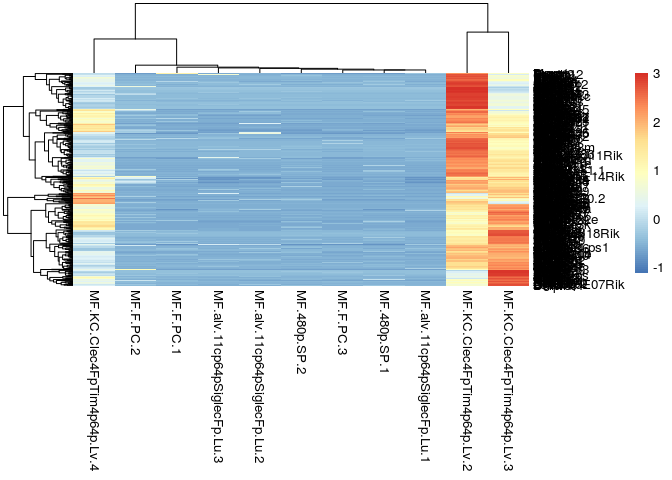
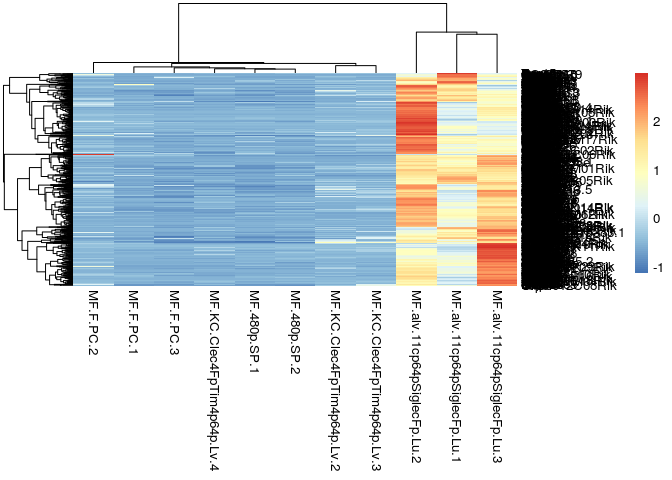
v2

diff --git a/task.md b/task.md
@@ -32,15 +32,15 @@ which were transfected.
 ## The project
 
 Doing a pooled screen can be very expensive. To get enough signal over
-noise, you need to profile enough cells (hundreds) for each vector, so
+noise, you need to profile enough cells (thousands) for each vector, so
 checking the effect of 100 vectors requires you to profie hundreds of
 thousands of cells, and with about $0.5-$1 per cell, …. you can do the
 calculation\!
 
 To lower the cost, we typically want to do a targeted screen, where we
-narrow down to a subset of genes. This may be based on function
-(e.g. transcription factors) and expression pattern (e.g. genes
-specific to alveolar macrophages).
+narrow down to a subset of genes, between 10 and 50. This may be based
+on function (e.g. transcription factors) and expression pattern
+(e.g. genes specific to alveolar macrophages).
 
 In this example, we’re going to design a screen for transcription
 factors that may be important for alveolar macrophages. For the project,
@@ -169,100 +169,21 @@ macrophages:
 
 ``` r
 population_ids_oi <- c("MF.alv.11cp64pSiglecFp.Lu","MF.KC.Clec4FpTim4p64p.Lv")
-sample_info_oi <- sample_info %>% 
-  filter(population_id %in% population_ids_oi)
-counts_oi <- counts[, sample_info_oi$sample_id]
-
-group <- sample_info_oi$population_id
-mm <- model.matrix(~0 + group)
-y <- voom(counts_oi, mm, plot = T)
-```
-
-![](task_files/figure-gfm/unnamed-chunk-8-1.png)<!-- -->
-
-``` r
-# construct a linear model with one term: the "group"
-
-fit <- lmFit(y, mm)
-contr <- makeContrasts(paste0("group", population_ids_oi[[1]], "-", "group", population_ids_oi[[2]]), levels = colnames(coef(fit)))
-contr_fit <- contrasts.fit(fit, contr)
-```
-
-``` r
-ebayes_fit <- eBayes(contr_fit)
-
-top.table <- topTable(ebayes_fit, sort.by = "P", number = Inf)
-```
-
-``` r
-genes_oi <- top.table %>% 
-  rownames_to_column("gene_id") %>% 
-  filter(adj.P.Val < 0.05, abs(logFC) > 1) %>% 
-  top_n(100, abs(logFC)) %>% 
-  pull(gene_id)
 ```
 
 Plot the genes in a heatmap. We will scale the expression per gene.
-
-``` r
-expression_oi <- edgeR::cpm(counts_oi)[genes_oi, ]
-expression_oi_scaled <- t(scale(t(expression_oi)))
-pheatmap::pheatmap(expression_oi_scaled)
-```
-
 ![](task_files/figure-gfm/unnamed-chunk-12-1.png)<!-- -->
 
-``` r
-get_marker_genes <- function(counts, sample_info, populations_reference, population_oi) {
-  # select relevant sample_info and counts
-  sample_info_oi <- sample_info %>% 
-    filter(population_id %in% c(populations_reference, population_oi))
-  counts_oi <- counts[, sample_info_oi$sample_id]
-  counts_oi <- counts_oi[apply(counts_oi, 1, mean) >= 1, ]
-  
-  # build linear model
-  group <- sample_info_oi$population_id
-  mm <- model.matrix(~0 + group)
-  y <- voom(counts_oi, mm)
-  
-  fit <- lmFit(y, mm)
-  
-  # get differential expression for each reference population
-  differential_expression <- lapply(populations_reference, function(population_reference) {
-    contr_formula <- paste0("group", population_oi, "-", "group", population_reference)
-    contr <- makeContrasts(contrasts = contr_formula, levels = colnames(coef(fit)))
-    contr_fit <- contrasts.fit(fit, contr)
-    
-    ebayes_fit <- eBayes(contr_fit)
-    top.table <- topTable(ebayes_fit, sort.by = "P", number = Inf)
-    top.table %>% 
-      rownames_to_column("gene_id") %>% 
-      mutate(
-        population_1 = population_oi,
-        population_2 = population_reference
-      )
-  }) %>% 
-    bind_rows()
-}
-```
+We can do a differential expression for many different populations. The
+genes of interest are then for example the genes that are upregulated in
+our population of interest compared to all other “reference”
+populations. In our case, the reference are all types of
+macrophages.
 
 ``` r
-populations_reference <- c("MF.F.PC","MF.alv.11cp64pSiglecFp.Lu" , "MF.480p.SP")
-population_oi <- "MF.KC.Clec4FpTim4p64p.Lv"
+populations_reference <- c("MF.KC.Clec4FpTim4p64p.Lv", "MF.F.PC", "MF.480p.SP")
+population_oi <- "MF.alv.11cp64pSiglecFp.Lu"
 differential_expression <- get_marker_genes(counts, sample_info, populations_reference, population_oi)
-```
-
-``` r
-markers <- differential_expression %>% 
-  group_by(gene_id) %>% 
-  summarise(max_adj_pval = max(adj.P.Val), min_logfc = min(logFC)) %>% 
-  filter(max_adj_pval < 0.05, min_logfc > 2) %>% 
-  pull(gene_id)
-
-samples_oi <- sample_info %>% filter(population_id %in% c(population_oi, populations_reference)) %>% pull(sample_id)
-expression_oi <- log2(counts/colSums(counts) + 1)[markers, samples_oi]
-expression_oi_scaled <- t(scale(t(expression_oi)))
-pheatmap::pheatmap(expression_oi_scaled)
 ```
 
 ![](task_files/figure-gfm/unnamed-chunk-15-1.png)<!-- -->
@@ -274,29 +195,45 @@ genes_oi <- intersect(markers, tfs)
 cat(paste0(genes_oi, collapse = "\n"))
 ```
 
-    ## Bcl6b
-    ## Erg
-    ## Gata4
-    ## Hey1
-    ## Hic1
-    ## Hnf4a
-    ## Id3
-    ## Ifi205
-    ## Ifi208
-    ## Meis2
-    ## Nfib
-    ## Nfxl1
-    ## Nr1h4
-    ## Nr2f2
-    ## Ppara
-    ## Rorc
-    ## Smad6
-    ## Sox18
-    ## Tead4
+    ## Bhlhe41
+    ## Cebpa
+    ## Cebpb
+    ## Cebpd
+    ## Ctnnb1
+    ## Foxf1
+    ## Gtf3a
+    ## Hes6
+    ## Hes7
+    ## Maff
+    ## Mkx
+    ## Ovol2
+    ## Plscr1
+    ## Rara
+    ## Rfx2
+    ## Runx1
+    ## Runx2
+    ## Snai3
+    ## Spi1
+    ## Tfeb
+    ## Thap11
+    ## Trerf1
+    ## Zbtb7a
+    ## Zfp296
+    ## Zfp358
 
-Submit this to
+We’re lucky that we here get about 20 genes. What would you do if you
+get 500 genes? You might for example be a bit stricter and select the 20
+genes that have the highest expression in our population of interest.
+What would you do if you get 2 genes? You can loosen the restrictions a
+bit and allow that the genes are also expressed in one or two of the
+reference populations.
+
+We can submit this list to …
 <https://portals.broadinstitute.org/gpp/public/analysis-tools/sgrna-design>
-(or any related tool)
+(or any related tool). This will search for appropriate gRNA sequences.
+It will try to avoid off-targets by doing a BLAST search against the
+genome of interest, and selecting those gRNAs that are only found once,
+i.e. at the location of interest.
 
 ``` r
 sgrna_design <- read_tsv("results/sgrna_designs.txt")
@@ -365,6 +302,31 @@ sgrna_design %>%
     ## 19 Tead4  Tead4                CGGTGCGGAGGGTGAGGGGG
 
 Time to start cloning\!
+
+## Analysis
+
+To analyze the data, you need to know for each read the cell to which it
+belongs (cell barcode) and how this cell was perturbed (gRNA barcode).
+
+Analyzing the data happens in two steps: preprocessing and modelling.
+
+In the preprocessing step, you count the number of molecules that are
+part of each cell. You also assign to each cell with which vector it was
+transfected, so that you know which genes were affected in your cell.
+
+In the modelling step, you have a look at the effect of the perturbation
+on your cell of interest. These analyses can be:
+
+  - Finding modules of genes that are affected by different
+    perturbations. These modules can have functions, e.g. a module that
+    is related to lipid metabolism.
+  - If you combine perturbations of different genes, you can also
+    analyze interactions between genes, e.g. whether they work
+    synergistically, antagonistically, …
+
+The current state-of-the-art of CRISPR screen modelling is probably:
+<https://science.sciencemag.org/content/365/6455/786/tab-figures-data>
+together.
 
 ## References
 
